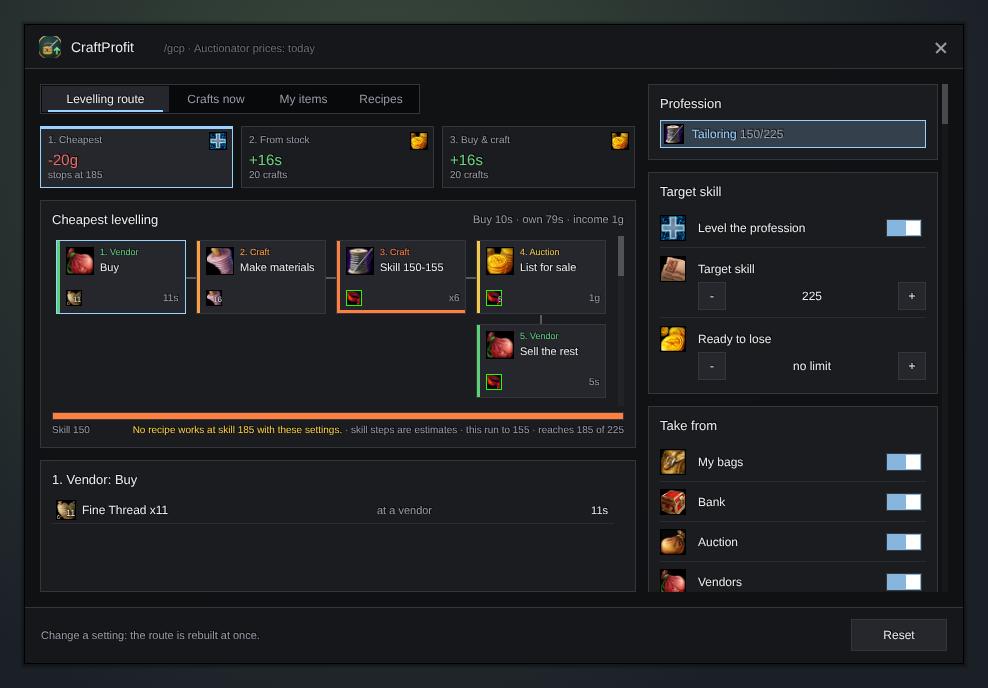
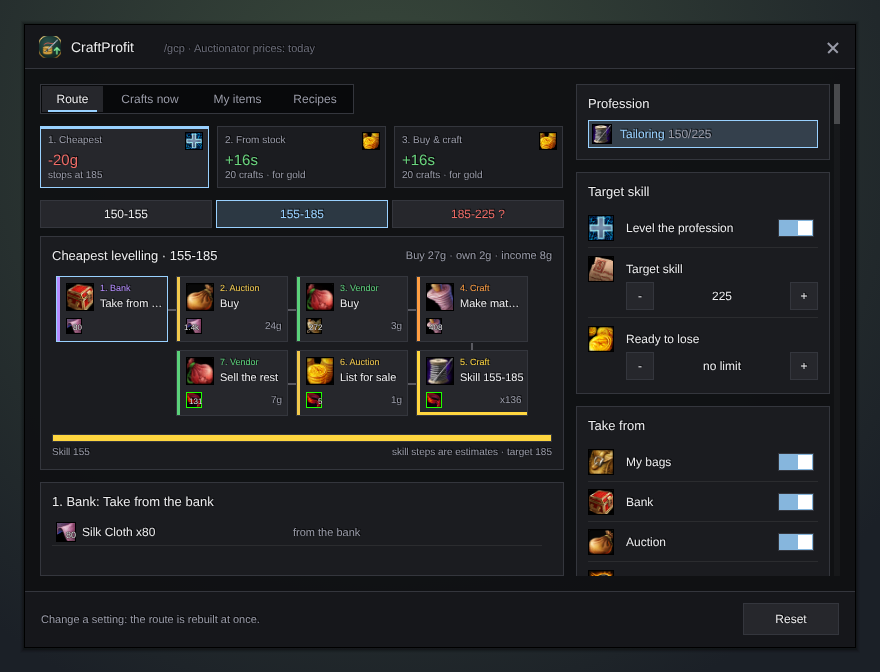
CraftProfit 1.4.0: the whole way as run chips, a graph that fits (#25)
Small chips over the graph show every run up to the target skill (ns.Legs):
each run plans from what the one before left, the same recipe twice in a row is
one run, and a stretch where no known recipe raises the skill is a red
'unknown' chip up to the next orange skill. A run is one recipe (P.only). The
graph always shows two rows of stops; All stops opens the rest in place of the
stop list. Smaller stops and a narrower settings column fit four per row.

Claude-Session: https://claude.ai/code/session_01HDZ3VaZjuXN1E3gFcrCjvf

diff --git a/AGENTS.md b/AGENTS.md
@@ -83,7 +83,7 @@ Each one loads `Locales.lua`, `Core.lua`, `Skin.lua`, `UI.lua` (DungeonPrep adds
 - **Gulli-Loot** (`/glt`, `GulliLootDB`: `quality` 0-2 -> ask/greed/pass, `items` id -> need/greed/pass, `report`). `ns.Decide` makes the rule: an item rule first; a quality rule never touches bind-on-pickup or protected items. Only rolls it made are confirmed (`ns.OnConfirm`).
 - **Gulli-Social** (`/gso`, `GulliSocialDB`: `invite`, `words`, `inviteKnown`, `acceptKnown`, `blockStrangers`, `noDuels`, `noGuildInvites`). `ns.Known` checks friends and guild by name without the realm. Turning things away is off by default.
 - **Gulli-Reminders** (`/grm`, `GulliRemindersDB`: `buffs`, `weapon`, `ammo`, `shards`, `notResting`, `ammoMin`, `shardsMin`). `ns.Missing` checks out of combat only. `ns.BUFFS` lists each class's long buffs as groups of rank-1 spell ids (any name in the group counts); a new buff gets a group, a `BUFF_<KEY>` text in every language and a test.
-- **Gulli-CraftProfit** (`/gcp`, `/gcp probe`; `GulliCraftProfitDB`: `prefs`, `vendor` item id -> price seen at a vendor, `trainer` recipe name -> cost; `GulliCraftProfitCharDB.profs` by profession name: `skill`, `cap`, `icon`, `recipes` with reagents, output, `learned` and `obs` skill -> colour; `current`). Loads `Locales.lua`, `Core.lua`, `Scan.lua`, `Skin.lua`, `UI.lua`. `Core.lua` is pure rules on a plain `state` table (no game calls), so the tests run it without a game: `ns.SellValue` (auction cut 5% or 15% neutral, the share that sells, the deposit lost on the rest, `maxSell` units of one item before the rest goes to a vendor), `ns.BuyOption`, `ns.Chance`/`ns.Color` (orange always, then (grey - skill) / (grey - yellow)), `ns.Estimate` (thresholds from the colours seen), `ns.Cap` (a cap the game did not give is the rank the skill is in), `ns.Plan` (per skill point the lowest expected cost plus time weight `P.w` and a small switch cost; own items count at what they would sell for; bought recipes are dropped while that improves the plan), `ns.Frontier` (plans for each weight of `ns.SWEEP`, kept when 2% faster than every cheaper one, at most `ns.LEVEL_ROUTES`), `ns.NextRun` (a route is one run: the first recipe of the whole way, planned again to there, with the whole way in `full`; the window plans again when the skill or the prices change), `ns.Earn` (a profit run without levelling: the one recipe whose series gains the most, crafted while a craft still gains, at most `ns.EARN_MAX` crafts with the intermediates and `maxBuy` of one item bought at the auction (`P.ahBought` in `ns.BuyOption`); `own` only from the bags and bank plus vendor reagents, else also auction buys and a bought pattern), `ns.Variants` (every route of `ns.MODES` for the tabs: the levelling ones `l1`..`l4` only while `level` is on and there is skill left; `over` when the whole way loses more than `budget`, `best` the fastest within it, which mode `auto` follows), `ns.Route` (stops: bank, auction, vendor, intermediates, crafts split by trainer visits, selling) and `ns.Changed`. A new route goes into `ns.MODES` (and `ns.EARN` when it does not level) with `VAR_`/`TILE_` texts and a test; a saved mode that is renamed gets an entry in `ns.OLD_MODES`. `Scan.lua` holds every game read: the profession window (`C_TradeSkillUI`, the classic `GetTradeSkillInfo` as fallback; a skill of 0 is read from the spellbook, and a profession at 0/0 is never saved), item counts with the bank, Auctionator `API.v1`, and prices seen at vendors and trainers. `UI.lua` shows the route as a graph of stops with game icons (`ns.STOP_ICONS`) and the settings column (cards of switch rows and `S.Stepper` rows, icons from `ns.OPT_ICON`, the main switches also in the hub's `options`); each setting goes through `ns.SetPref`, which rebuilds the plan and lights the changed stops. A new setting gets a default in `ns.DEFAULTS`, a control in the column, its texts in every language and a test that clicking it rebuilds the route; a new kind of stop gets a colour in `ns.STOPS`, an icon in `ns.STOP_ICONS`, its texts and a test. Exact recipe thresholds are not in the client: until a generated `Data.lua` adds them, they are guessed (`guess`).
+- **Gulli-CraftProfit** (`/gcp`, `/gcp probe`; `GulliCraftProfitDB`: `prefs`, `vendor` item id -> price seen at a vendor, `trainer` recipe name -> cost; `GulliCraftProfitCharDB.profs` by profession name: `skill`, `cap`, `icon`, `recipes` with reagents, output, `learned` and `obs` skill -> colour; `current`). Loads `Locales.lua`, `Core.lua`, `Scan.lua`, `Skin.lua`, `UI.lua`. `Core.lua` is pure rules on a plain `state` table (no game calls), so the tests run it without a game: `ns.SellValue` (auction cut 5% or 15% neutral, the share that sells, the deposit lost on the rest, `maxSell` units of one item before the rest goes to a vendor), `ns.BuyOption`, `ns.Chance`/`ns.Color` (orange always, then (grey - skill) / (grey - yellow)), `ns.Estimate` (thresholds from the colours seen), `ns.Cap` (a cap the game did not give is the rank the skill is in), `ns.Plan` (per skill point the lowest expected cost plus time weight `P.w` and a small switch cost; own items count at what they would sell for; bought recipes are dropped while that improves the plan), `ns.Frontier` (plans for each weight of `ns.SWEEP`, kept when 2% faster than every cheaper one, at most `ns.LEVEL_ROUTES`), `ns.NextRun` (a route is one run: the first recipe of the whole way, planned again to there with only that recipe, `P.only`, with the whole way in `full`; the window plans again when the skill or the prices change), `ns.Legs` (the whole way as runs one after another, each from what the run before left (`after`), the same recipe twice in a row as one run, `unknown` up to the next orange skill where no known recipe raises the skill, at most `ns.MAX_LEGS`; the chips over the graph, `ns.SelectLeg`, `ns.LegRoute`), `ns.Earn` (a profit run without levelling: the one recipe whose series gains the most, crafted while a craft still gains, at most `ns.EARN_MAX` crafts with the intermediates and `maxBuy` of one item bought at the auction (`P.ahBought` in `ns.BuyOption`); `own` only from the bags and bank plus vendor reagents, else also auction buys and a bought pattern), `ns.Variants` (every route of `ns.MODES` for the tabs: the levelling ones `l1`..`l4` only while `level` is on and there is skill left; `over` when the whole way loses more than `budget`, `best` the fastest within it, which mode `auto` follows), `ns.Route` (stops: bank, auction, vendor, intermediates, crafts split by trainer visits, selling) and `ns.Changed`. A new route goes into `ns.MODES` (and `ns.EARN` when it does not level) with `VAR_`/`TILE_` texts and a test; a saved mode that is renamed gets an entry in `ns.OLD_MODES`. `Scan.lua` holds every game read: the profession window (`C_TradeSkillUI`, the classic `GetTradeSkillInfo` as fallback; a skill of 0 is read from the spellbook, and a profession at 0/0 is never saved), item counts with the bank, Auctionator `API.v1`, and prices seen at vendors and trainers. `UI.lua` shows the route as a graph of stops with game icons (`ns.STOP_ICONS`), `SHOWN_ROWS` rows high with **All stops** for the rest, and the settings column (cards of switch rows and `S.Stepper` rows, icons from `ns.OPT_ICON`, the main switches also in the hub's `options`); each setting goes through `ns.SetPref`, which rebuilds the plan and lights the changed stops. A new setting gets a default in `ns.DEFAULTS`, a control in the column, its texts in every language and a test that clicking it rebuilds the route; a new kind of stop gets a colour in `ns.STOPS`, an icon in `ns.STOP_ICONS`, its texts and a test. Exact recipe thresholds are not in the client: until a generated `Data.lua` adds them, they are guessed (`guess`).
 - A module that acts on its own (sells, takes, rolls, accepts, declines) has a switch for each action, in its window and its saved variables, with a test that the switch stops it. Turning a whole module off is the hub's job (`ns.SetEnabled`).
 
 ## Task workflow

diff --git a/docs/craftprofit/README.md b/docs/craftprofit/README.md
@@ -20,6 +20,8 @@ Want to level Tailoring without losing your gold? Gulli CraftProfit looks at wha
 
 - **A route, not a table.** Each stop shows where to go, with the real game icons of what you buy, craft or sell there. Tap a stop to see the list.
 - **One run at a time.** The route is your next run: one kind of craft, with only the shopping it needs. Craft it, and the route plans the next run from your new skill and the new prices. Below the route you still see how far the whole way is.
+- **The whole way, run by run.** Small tabs over the route show every run up to your target skill: 150-155, 155-185 and so on. Tap one to see that run. A red tab with a question mark is a stretch where no recipe you know raises the skill; learn a new one, and the route goes on.
+- **The route fits on the screen.** You always see two rows of stops. When there are more, **All stops** opens the rest.
 - **Routes side by side.** Up to four ways to level, from the cheapest to the fastest, and two ways to just make money: from what you already have, or also buying reagents and patterns when the craft still pays. A money run is one recipe, crafted while it still pays and the market still takes it. It does not raise your skill, and it buys at most a few stacks of one reagent at the auction (**Auction buy, at most**), because only a few sell at the cheapest price. Each tab shows the gold, so you can compare them.
 - **How much you may lose.** Set **Ready to lose**, and CraftProfit picks the fastest way to level that stays within it. Ways that cost more are marked.
 - **Not levelling?** Switch off **Level the profession**, and you only see the crafts that make money. When your skill is at the top, the money routes open by themselves.
